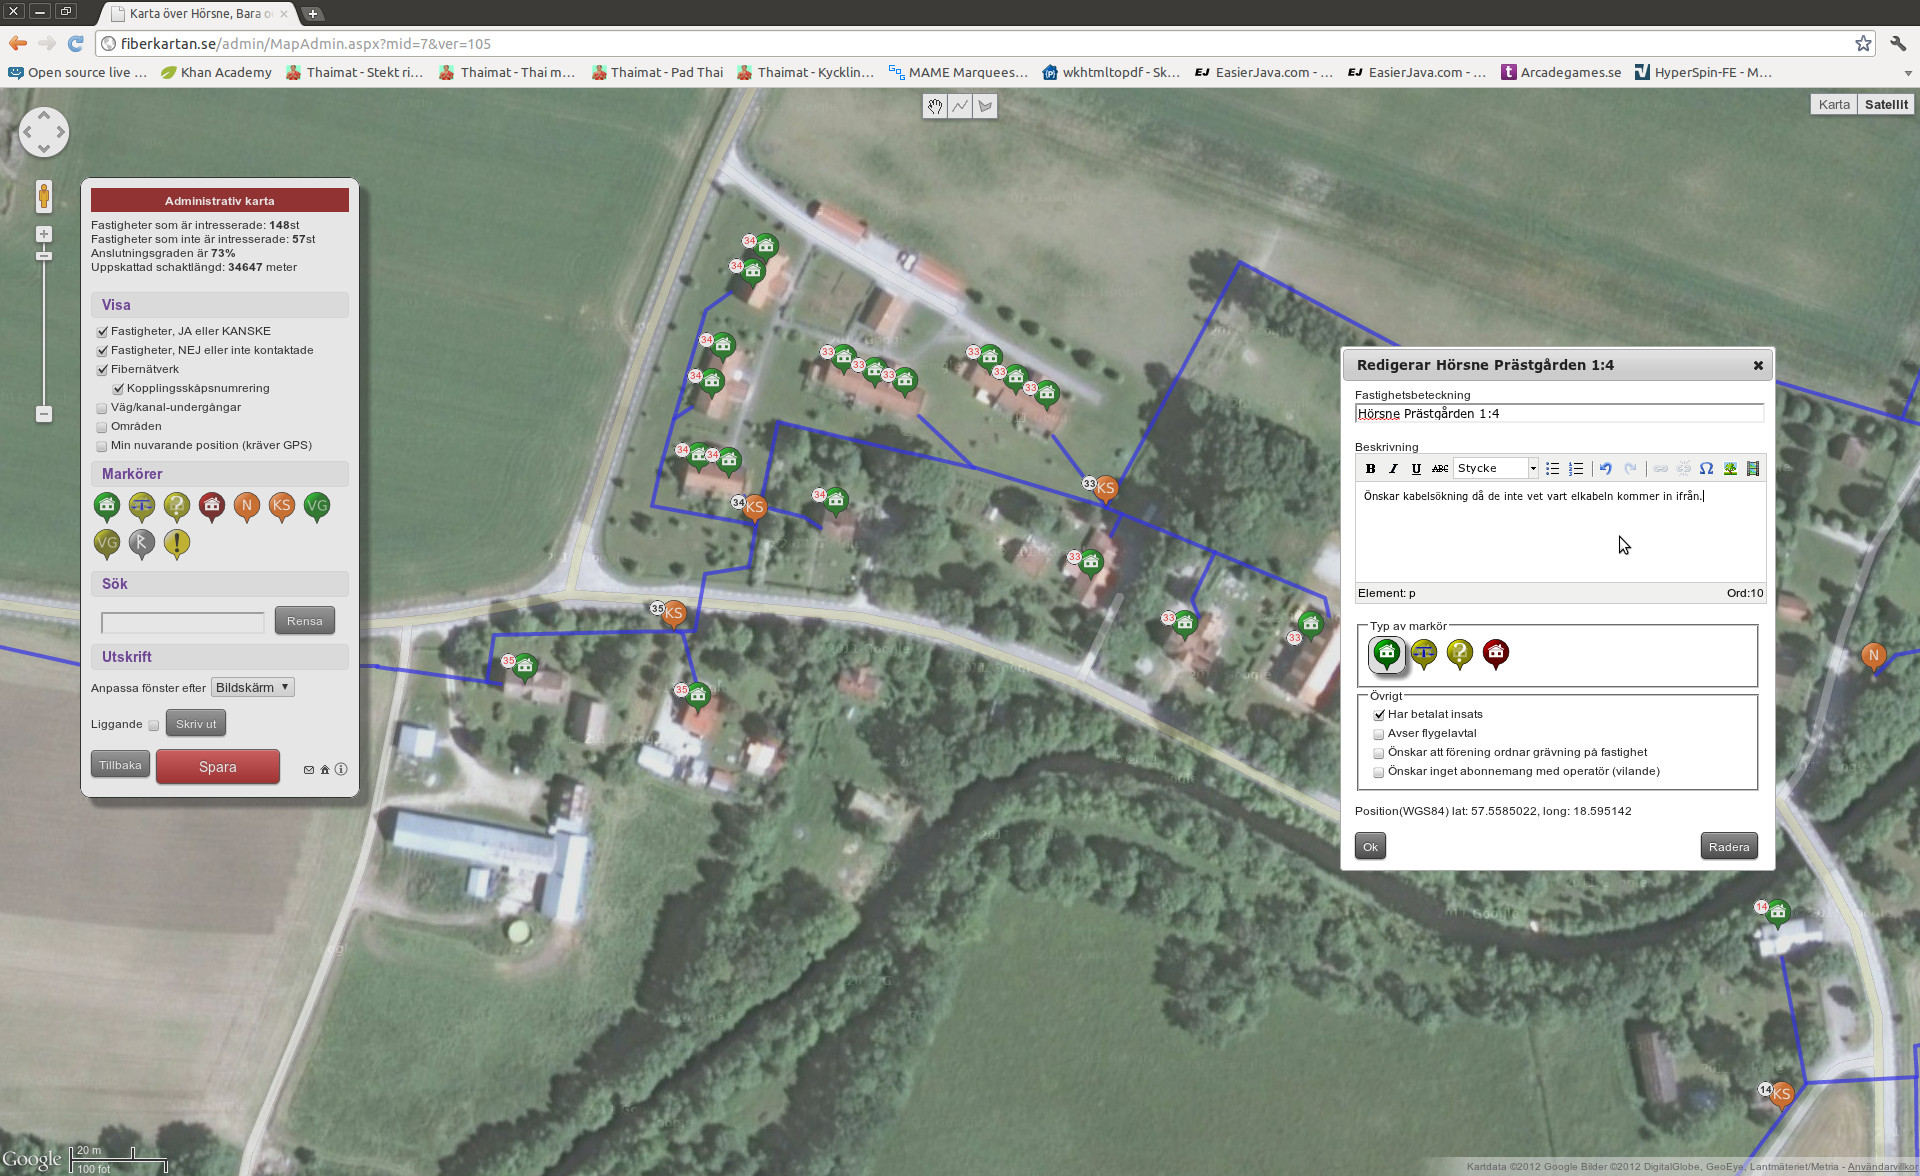
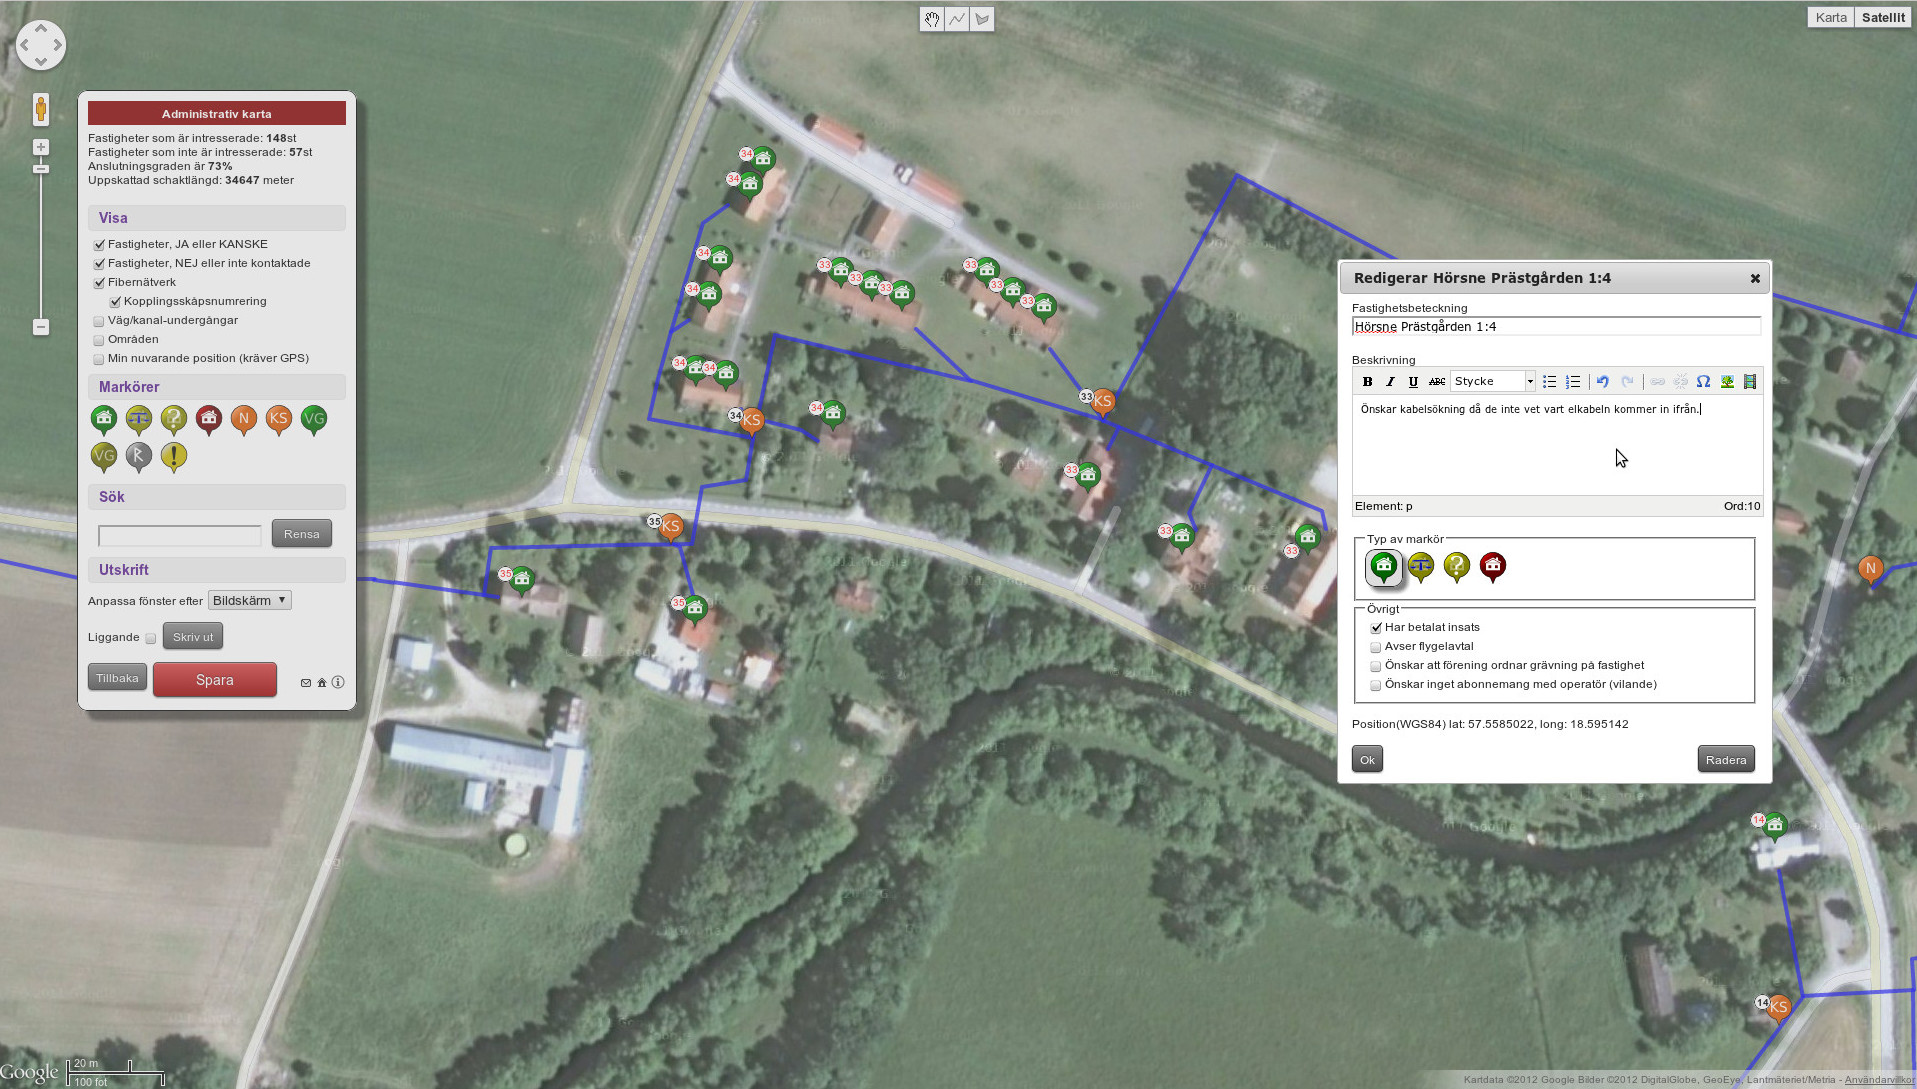
Fixat bilden på förstasidan så att man inte ser toppen av min webbläsare. Lite småjusteringar och centreringar av föstasidan. Fixat en bugg som gjorde att man inte kunde rita nya områden efter en uppdatering av Google Maps. (path->paths på PolygonOptions)

diff --git a/FiberKartan/inc/js/mapAdmin.js b/FiberKartan/inc/js/mapAdmin.js
@@ -172,7 +172,7 @@ Permission is granted to anyone to use this software for any purpose, including 
             google.maps.event.addListener(drawingManager, 'polygoncomplete', function (polygon) {
                 // Tar först bort området vi skapade och skapar sedan om den med addRegion()-funktionen så den läggs till korrekt och får alla eventlyssnare kopplade till sig.
                 polygon.setMap(null);
-                addRegion(--temporaryRegionId, 0, "Nytt område", "000000", "9999FF", polygon.getPaths());
+                addRegion(--temporaryRegionId, 0, "Nytt område", "000000", "9999FF", polygon.getPath());
 
                 // Har man börjat rita ett område så skall områden visas, annars försvinner området bara spårlöst(visuellt) när man är klar.
                 if (!$("#show_regions").is(":checked")) {
@@ -1402,20 +1402,20 @@ Permission is granted to anyone to use this software for any purpose, including 
     }
 
     function addRegion(id, uid, name, borderColor, fillColor, coordinatesString) {
-        var path = coordinatesString;
+        var paths = coordinatesString;
         // coordinatesString kan antingen vara ett färdigt MVCArray-objekt eller en sträng som skall konverteras till ett MVCArray-objekt.
         if (typeof (coordinatesString) == "string") {
-            path = new google.maps.MVCArray();
+            paths = new google.maps.MVCArray();
             var coordinates = coordinatesString.split('|');
 
             for (var i = 0, length = coordinates.length; i < length; i++) {
                 var coordinatePair = coordinates[i].split(':');
-                path.push(new google.maps.LatLng(parseFloat(coordinatePair[0]), parseFloat(coordinatePair[1])));
+                paths.push(new google.maps.LatLng(parseFloat(coordinatePair[0]), parseFloat(coordinatePair[1])));
             }
         }
         var polygon = new google.maps.Polygon({
             map: $("#show_regions").is(":checked") ? map : null,
-            path: path,
+            paths: paths,
             strokeColor: '#' + borderColor,
             fillColor: '#' + fillColor,
             fillOpacity: 0.3,

diff --git a/FiberKartan/inc/css/firstpage.css b/FiberKartan/inc/css/firstpage.css
@@ -1,6 +1,6 @@
 html  
 {
-    font: medium/1.200 "Times New Roman",serif;
+    font: normal 16px arial, sans-serif;
 }
 body 
 {
@@ -11,8 +11,12 @@ body
     padding-bottom: 2em;
     word-spacing: 0.1em;
 }
+.text-center {
+    text-align: center;
+}
 h1 {
     margin: 20px auto 50px auto;
+    text-align: center;
 }    
 a {
     text-decoration: none;
@@ -23,10 +27,6 @@ a:link {
 a:visited {
     color: RosyBrown;
 }
-img {
-    border: dotted 1px;
-    margin: 4px 4px 4px 20px;
-}
 .clear {
     clear: both;
 }
@@ -35,10 +35,10 @@ img {
     background: #555 url('../img/background-dark.png') repeat;
     background-color: #555;
 }
-.images
+.image
 {
-    margin: 40px auto;
-    width: 800px;
+    margin: 40px auto 20px auto;
+    max-width: 720px;
 }
 .copyright
 {
